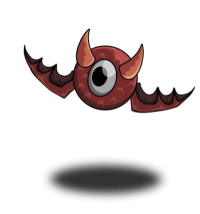
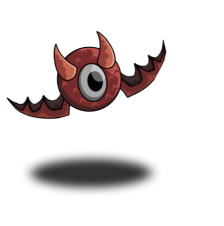
Add Death Animation To Bat Enemy

diff --git a/enemies/enemy.py b/enemies/enemy.py
@@ -5,8 +5,10 @@ import os
 class Enemy:
     def __init__(self):
         self.width = 64
-        self.health = 64
-        self.imgs = [pygame.image.load(os.path.join("assets", "bl-1-Monster No001-1.png")).convert_alpha()]
+        self.height = 64
+        self.alive = True
+        self.imgs_run = []
+        self.imgs_death = []
         self.img = None
         self.max_health = 10
         self.health = self.max_health-5
@@ -24,12 +26,18 @@ class Enemy:
         :param window: surface
         :return: None
         """
-        self.img = self.imgs[self.animation_count]
-        self.animation_count += 1
-        if self.animation_count >= len(self.imgs):
-            self.animation_count = 0
-        window.blit(self.img, (self.x - self.img.get_width()/2, self.y - self.img.get_height()/2))
-        self.move()
+        if self.alive:
+            self.img = self.imgs_run[self.animation_count]
+            self.animation_count += 1
+            if self.animation_count >= len(self.imgs_run):
+                self.animation_count = 0
+            window.blit(self.img, (self.x - self.width/2, self.y - self.height/2))
+            self.move()
+        else:
+            self.img = self.imgs_death[self.animation_count]
+            self.animation_count += 1
+            if self.animation_count < len(self.imgs_death):
+                window.blit(self.img, (self.x - self.width/2, self.y - self.height/2))
         self.draw_health_bar(window)
 
     def draw_health_bar(self, window):
@@ -52,8 +60,8 @@ class Enemy:
         :param y: int
         :return: bool
         """
-        if self.x + self.width >= x >= self.x:
-            if self.y + self.height >= y >= self.y:
+        if self.x + self.width/2 >= x >= self.x - self.width/2:
+            if self.y + self.height/2 >= y >= self.y - self.height/2:
                 return True
         return False
 
@@ -86,5 +94,7 @@ class Enemy:
         """
         self.health -= damage
         if self.health <= 0:
+            self.alive = False
+            self.animation_count = 0
             return True
         return False

diff --git a/game.py b/game.py
@@ -28,21 +28,37 @@ class Game:
 
         while self.running:
             clock.tick(60)
-
-            for event in pygame.event.get():
-                if event.type == pygame.QUIT:
-                    self.running = False
-
-                pos = pygame.mouse.get_pos()
-
-                if event.type == pygame.MOUSEBUTTONDOWN:
-                    self.clicks.append(pos)
-                    print(self.clicks)
-
+            self.input()
+            self.update()
             self.draw()
 
         pygame.quit()
 
+    def input(self):
+        """
+        Handle user input
+        :return: None
+        """
+
+        for event in pygame.event.get():
+            if event.type == pygame.QUIT:
+                self.running = False
+
+            pos = pygame.mouse.get_pos()
+
+            if event.type == pygame.MOUSEBUTTONDOWN:
+                self.clicks.append(pos)
+                # print(self.clicks)
+                for enemy in self.enemies:
+                    if enemy.collide(pos[0], pos[1]):
+                        enemy.hit(1)
+
+    def update(self):
+        """
+        updates the Game
+        :return: None
+        """
+        self.delete_dead_enemies()
 
     def draw(self):
         """
@@ -63,6 +79,19 @@ class Game:
         :return: None
         """
         self.enemies.append(Bat())
+
+    def delete_dead_enemies(self):
+        """
+        Delete Dead Enemies
+        :return: None
+        """
+        to_delete = []
+        for enemy in self.enemies:
+            if enemy.alive == False and enemy.animation_count >= len(enemy.imgs_death):
+                to_delete.append(enemy)
+
+        for d in to_delete:
+            self.enemies.remove(d)
 
 g = Game(1000, 700)
 g.run()

diff --git a/enemies/bat.py b/enemies/bat.py
@@ -2,13 +2,22 @@ import pygame
 import os
 from .enemy import Enemy
 
-imgs = []
+imgs_run = []
 for i in range(24):
     add_str = str(i)
     if i < 10:
         add_str = "0" + add_str
-    imgs.append(pygame.transform.scale(
+    imgs_run.append(pygame.transform.scale(
         pygame.image.load(os.path.join("assets/enemies/1/Run", "Version1_Run_" + add_str + ".png")),
+        (64, 64)))
+
+imgs_death = []
+for i in range(24):
+    add_str = str(i)
+    if i < 10:
+        add_str = "0" + add_str
+    imgs_death.append(pygame.transform.scale(
+        pygame.image.load(os.path.join("assets/enemies/1/Death2", "Version1_Death2_" + add_str + ".png")),
         (64, 64)))
 
 
@@ -18,4 +27,5 @@ class Bat(Enemy):
         self.name = "bat"
         self.max_health = 10
         self.health = self.max_health
-        self.imgs = imgs[:]
+        self.imgs_run = imgs_run[:]
+        self.imgs_death = imgs_death[:]

diff --git a/main_menu/main_menu.py b/main_menu/main_menu.py
@@ -1,0 +1,10 @@
+import pygame
+import os
+
+logo = pygame.image.load(os.path.join("assets", "logo.png"))
+
+class MainMenu:
+    def __init__(self, window, width, height):
+        self.width = width
+        self.height = height
+

diff --git a/menu/menu.py b/menu/menu.py
@@ -1,0 +1,3 @@
+import pygame
+import os
+
